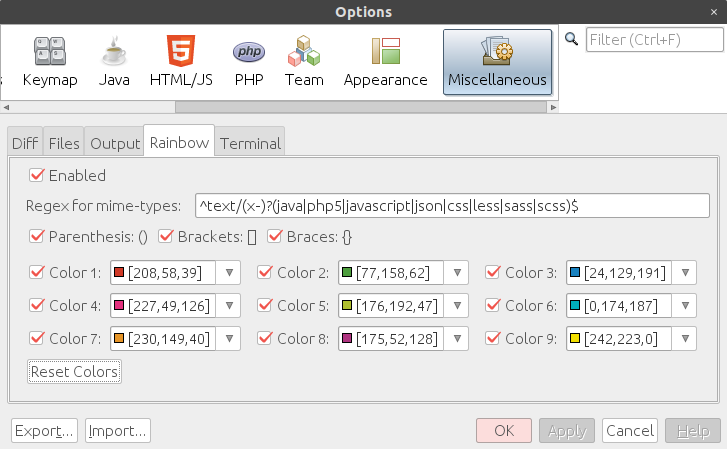
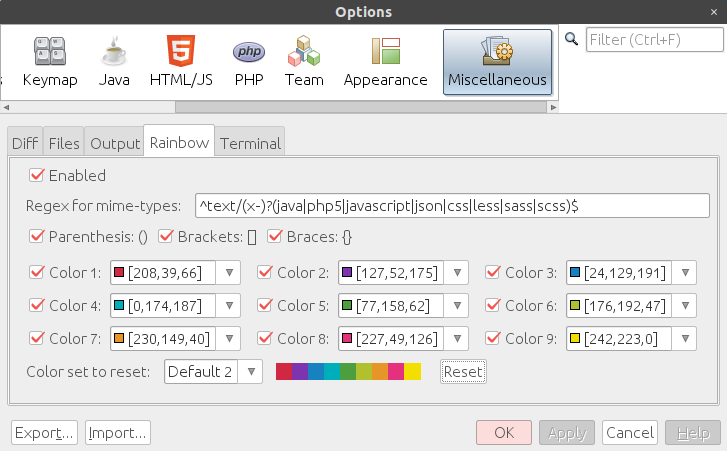
Add a combo box to reset with default colors

diff --git a/src/com/junichi11/netbeans/modules/rainbow/braces/options/RainbowBracesOptionsPanel.java b/src/com/junichi11/netbeans/modules/rainbow/braces/options/RainbowBracesOptionsPanel.java
@@ -16,11 +16,18 @@
 package com.junichi11.netbeans.modules.rainbow.braces.options;
 
 import java.awt.Color;
+import java.awt.Component;
+import java.awt.Graphics;
+import java.awt.Graphics2D;
+import java.util.List;
 import java.util.regex.Pattern;
 import java.util.regex.PatternSyntaxException;
+import javax.swing.Icon;
 import javax.swing.UIManager;
 import javax.swing.event.DocumentEvent;
 import javax.swing.event.DocumentListener;
+import org.openide.*;
+import org.openide.util.NbBundle;
 
 /**
  *
@@ -48,6 +55,22 @@ public class RainbowBracesOptionsPanel extends javax.swing.JPanel {
         setErrorMessage(null);
         // add listener
         mimeTypesTextField.getDocument().addDocumentListener(new DefaultDocumentListener());
+        List<String> defaultColorNames = RainbowBracesOptions.getDefaultColorNames();
+        defaultColorNames.forEach(color -> resetColorsComboBox.addItem(color));
+        resetColorsComboBox.addItemListener(e -> {
+            setColorBar();
+        });
+        resetColorsBarLabel.setText(" "); // NOI18N
+        setColorBar();
+    }
+
+    private void setColorBar() {
+        resetColorsBarLabel.setIcon(
+                new ColorBarIcon(
+                        RainbowBracesOptions.getDefaultColors((String) resetColorsComboBox.getSelectedItem()),
+                        resetColorsBarLabel.getPreferredSize().height
+                )
+        );
     }
 
     /**
@@ -85,6 +108,9 @@ public class RainbowBracesOptionsPanel extends javax.swing.JPanel {
         bracesCheckBox = new javax.swing.JCheckBox();
         errorLabel = new javax.swing.JLabel();
         resetColorsButton = new javax.swing.JButton();
+        resetColorsComboBox = new javax.swing.JComboBox<>();
+        resetColorsLabel = new javax.swing.JLabel();
+        resetColorsBarLabel = new javax.swing.JLabel();
 
         org.openide.awt.Mnemonics.setLocalizedText(mimeTypesLabel, org.openide.util.NbBundle.getMessage(RainbowBracesOptionsPanel.class, "RainbowBracesOptionsPanel.mimeTypesLabel.text")); // NOI18N
 
@@ -125,6 +151,10 @@ public class RainbowBracesOptionsPanel extends javax.swing.JPanel {
             }
         });
 
+        org.openide.awt.Mnemonics.setLocalizedText(resetColorsLabel, org.openide.util.NbBundle.getMessage(RainbowBracesOptionsPanel.class, "RainbowBracesOptionsPanel.resetColorsLabel.text")); // NOI18N
+
+        org.openide.awt.Mnemonics.setLocalizedText(resetColorsBarLabel, org.openide.util.NbBundle.getMessage(RainbowBracesOptionsPanel.class, "RainbowBracesOptionsPanel.resetColorsBarLabel.text")); // NOI18N
+
         javax.swing.GroupLayout layout = new javax.swing.GroupLayout(this);
         this.setLayout(layout);
         layout.setHorizontalGroup(
@@ -136,20 +166,30 @@ public class RainbowBracesOptionsPanel extends javax.swing.JPanel {
             .addGroup(layout.createSequentialGroup()
                 .addGroup(layout.createParallelGroup(javax.swing.GroupLayout.Alignment.LEADING)
                     .addGroup(layout.createSequentialGroup()
-                        .addGroup(layout.createParallelGroup(javax.swing.GroupLayout.Alignment.LEADING)
-                            .addComponent(colorCheckBox4)
-                            .addComponent(colorCheckBox1)
-                            .addComponent(colorCheckBox7))
+                        .addComponent(parenthesisCheckBox)
                         .addPreferredGap(javax.swing.LayoutStyle.ComponentPlacement.RELATED)
-                        .addGroup(layout.createParallelGroup(javax.swing.GroupLayout.Alignment.LEADING, false)
-                            .addComponent(colorComboBox1, javax.swing.GroupLayout.DEFAULT_SIZE, javax.swing.GroupLayout.DEFAULT_SIZE, Short.MAX_VALUE)
-                            .addComponent(colorComboBox4, javax.swing.GroupLayout.DEFAULT_SIZE, javax.swing.GroupLayout.DEFAULT_SIZE, Short.MAX_VALUE)
-                            .addComponent(colorComboBox7, javax.swing.GroupLayout.DEFAULT_SIZE, javax.swing.GroupLayout.DEFAULT_SIZE, Short.MAX_VALUE))
-                        .addPreferredGap(javax.swing.LayoutStyle.ComponentPlacement.UNRELATED)
+                        .addComponent(bracketsCheckBox)
+                        .addPreferredGap(javax.swing.LayoutStyle.ComponentPlacement.RELATED)
+                        .addComponent(bracesCheckBox))
+                    .addComponent(enabledCheckBox)
+                    .addGroup(layout.createSequentialGroup()
                         .addGroup(layout.createParallelGroup(javax.swing.GroupLayout.Alignment.LEADING)
-                            .addComponent(colorCheckBox5)
-                            .addComponent(colorCheckBox2)
-                            .addComponent(colorCheckBox8))
+                            .addComponent(errorLabel)
+                            .addGroup(layout.createSequentialGroup()
+                                .addGroup(layout.createParallelGroup(javax.swing.GroupLayout.Alignment.LEADING)
+                                    .addComponent(colorCheckBox4)
+                                    .addComponent(colorCheckBox1)
+                                    .addComponent(colorCheckBox7))
+                                .addPreferredGap(javax.swing.LayoutStyle.ComponentPlacement.RELATED)
+                                .addGroup(layout.createParallelGroup(javax.swing.GroupLayout.Alignment.LEADING, false)
+                                    .addComponent(colorComboBox1, javax.swing.GroupLayout.DEFAULT_SIZE, javax.swing.GroupLayout.DEFAULT_SIZE, Short.MAX_VALUE)
+                                    .addComponent(colorComboBox4, javax.swing.GroupLayout.DEFAULT_SIZE, javax.swing.GroupLayout.DEFAULT_SIZE, Short.MAX_VALUE)
+                                    .addComponent(colorComboBox7, javax.swing.GroupLayout.DEFAULT_SIZE, javax.swing.GroupLayout.DEFAULT_SIZE, Short.MAX_VALUE))
+                                .addPreferredGap(javax.swing.LayoutStyle.ComponentPlacement.UNRELATED)
+                                .addGroup(layout.createParallelGroup(javax.swing.GroupLayout.Alignment.LEADING)
+                                    .addComponent(colorCheckBox5)
+                                    .addComponent(colorCheckBox2)
+                                    .addComponent(colorCheckBox8))))
                         .addPreferredGap(javax.swing.LayoutStyle.ComponentPlacement.RELATED)
                         .addGroup(layout.createParallelGroup(javax.swing.GroupLayout.Alignment.LEADING, false)
                             .addComponent(colorComboBox2, javax.swing.GroupLayout.DEFAULT_SIZE, javax.swing.GroupLayout.DEFAULT_SIZE, Short.MAX_VALUE)
@@ -166,14 +206,13 @@ public class RainbowBracesOptionsPanel extends javax.swing.JPanel {
                             .addComponent(colorComboBox6, javax.swing.GroupLayout.DEFAULT_SIZE, javax.swing.GroupLayout.DEFAULT_SIZE, Short.MAX_VALUE)
                             .addComponent(colorComboBox9, javax.swing.GroupLayout.DEFAULT_SIZE, javax.swing.GroupLayout.DEFAULT_SIZE, Short.MAX_VALUE)))
                     .addGroup(layout.createSequentialGroup()
-                        .addComponent(parenthesisCheckBox)
+                        .addComponent(resetColorsLabel)
                         .addPreferredGap(javax.swing.LayoutStyle.ComponentPlacement.RELATED)
-                        .addComponent(bracketsCheckBox)
+                        .addComponent(resetColorsComboBox, javax.swing.GroupLayout.PREFERRED_SIZE, javax.swing.GroupLayout.DEFAULT_SIZE, javax.swing.GroupLayout.PREFERRED_SIZE)
                         .addPreferredGap(javax.swing.LayoutStyle.ComponentPlacement.RELATED)
-                        .addComponent(bracesCheckBox))
-                    .addComponent(enabledCheckBox)
-                    .addComponent(errorLabel)
-                    .addComponent(resetColorsButton))
+                        .addComponent(resetColorsBarLabel)
+                        .addPreferredGap(javax.swing.LayoutStyle.ComponentPlacement.RELATED)
+                        .addComponent(resetColorsButton)))
                 .addContainerGap(javax.swing.GroupLayout.DEFAULT_SIZE, Short.MAX_VALUE))
         );
         layout.setVerticalGroup(
@@ -216,23 +255,43 @@ public class RainbowBracesOptionsPanel extends javax.swing.JPanel {
                     .addComponent(colorCheckBox9)
                     .addComponent(colorComboBox9, javax.swing.GroupLayout.PREFERRED_SIZE, javax.swing.GroupLayout.DEFAULT_SIZE, javax.swing.GroupLayout.PREFERRED_SIZE))
                 .addPreferredGap(javax.swing.LayoutStyle.ComponentPlacement.RELATED)
-                .addComponent(resetColorsButton)
+                .addGroup(layout.createParallelGroup(javax.swing.GroupLayout.Alignment.BASELINE)
+                    .addComponent(resetColorsButton)
+                    .addComponent(resetColorsComboBox, javax.swing.GroupLayout.PREFERRED_SIZE, javax.swing.GroupLayout.DEFAULT_SIZE, javax.swing.GroupLayout.PREFERRED_SIZE)
+                    .addComponent(resetColorsLabel)
+                    .addComponent(resetColorsBarLabel))
                 .addPreferredGap(javax.swing.LayoutStyle.ComponentPlacement.RELATED, javax.swing.GroupLayout.DEFAULT_SIZE, Short.MAX_VALUE)
                 .addComponent(errorLabel))
         );
     }// </editor-fold>//GEN-END:initComponents
 
+    @NbBundle.Messages({
+        "# {0} - name",
+        "RainbowBracesOptionsPanel.confirmation.message.reset.colors=Would you really like rest colors with {0}? You cannot undo them.",
+        "RainbowBracesOptionsPanel.confirmation.message.title=Reset colors"
+    })
     private void resetColorsButtonActionPerformed(java.awt.event.ActionEvent evt) {//GEN-FIRST:event_resetColorsButtonActionPerformed
+        // show confirmation dialog
+        String name = (String) resetColorsComboBox.getSelectedItem();
+        NotifyDescriptor.Confirmation confirmation = new NotifyDescriptor.Confirmation(
+                Bundle.RainbowBracesOptionsPanel_confirmation_message_reset_colors(name),
+                Bundle.RainbowBracesOptionsPanel_confirmation_message_title(),
+                NotifyDescriptor.OK_CANCEL_OPTION,
+                NotifyDescriptor.QUESTION_MESSAGE
+        );
+        if (DialogDisplayer.getDefault().notify(confirmation) != NotifyDescriptor.OK_OPTION) {
+            return;
+        }
         RainbowBracesOptions options = RainbowBracesOptions.getInstance();
-        colorComboBox1.setSelectedColor(Color.decode(options.getDefaultColorCode(1)));
-        colorComboBox2.setSelectedColor(Color.decode(options.getDefaultColorCode(2)));
-        colorComboBox3.setSelectedColor(Color.decode(options.getDefaultColorCode(3)));
-        colorComboBox4.setSelectedColor(Color.decode(options.getDefaultColorCode(4)));
-        colorComboBox5.setSelectedColor(Color.decode(options.getDefaultColorCode(5)));
-        colorComboBox6.setSelectedColor(Color.decode(options.getDefaultColorCode(6)));
-        colorComboBox7.setSelectedColor(Color.decode(options.getDefaultColorCode(7)));
-        colorComboBox8.setSelectedColor(Color.decode(options.getDefaultColorCode(8)));
-        colorComboBox9.setSelectedColor(Color.decode(options.getDefaultColorCode(9)));
+        colorComboBox1.setSelectedColor(Color.decode(options.getDefaultColorCode(name, 1)));
+        colorComboBox2.setSelectedColor(Color.decode(options.getDefaultColorCode(name, 2)));
+        colorComboBox3.setSelectedColor(Color.decode(options.getDefaultColorCode(name, 3)));
+        colorComboBox4.setSelectedColor(Color.decode(options.getDefaultColorCode(name, 4)));
+        colorComboBox5.setSelectedColor(Color.decode(options.getDefaultColorCode(name, 5)));
+        colorComboBox6.setSelectedColor(Color.decode(options.getDefaultColorCode(name, 6)));
+        colorComboBox7.setSelectedColor(Color.decode(options.getDefaultColorCode(name, 7)));
+        colorComboBox8.setSelectedColor(Color.decode(options.getDefaultColorCode(name, 8)));
+        colorComboBox9.setSelectedColor(Color.decode(options.getDefaultColorCode(name, 9)));
     }//GEN-LAST:event_resetColorsButtonActionPerformed
 
     void load() {
@@ -355,9 +414,13 @@ public class RainbowBracesOptionsPanel extends javax.swing.JPanel {
     private javax.swing.JLabel mimeTypesLabel;
     private javax.swing.JTextField mimeTypesTextField;
     private javax.swing.JCheckBox parenthesisCheckBox;
+    private javax.swing.JLabel resetColorsBarLabel;
     private javax.swing.JButton resetColorsButton;
+    private javax.swing.JComboBox<String> resetColorsComboBox;
+    private javax.swing.JLabel resetColorsLabel;
     // End of variables declaration//GEN-END:variables
 
+    //~ Inner classes
     private class DefaultDocumentListener implements DocumentListener {
 
         public DefaultDocumentListener() {
@@ -382,5 +445,40 @@ public class RainbowBracesOptionsPanel extends javax.swing.JPanel {
             fireChange();
         }
 
+    }
+
+    private static class ColorBarIcon implements Icon {
+
+        private final List<String> colors;
+        private final int width;
+        private final int height;
+
+        public ColorBarIcon(List<String> colors, int size) {
+            this.colors = colors;
+            this.height = size;
+            this.width = size * colors.size();
+        }
+
+        @Override
+        public void paintIcon(Component c, Graphics g, int x, int y) {
+            Graphics2D g2d = (Graphics2D) g.create();
+            int i = 0;
+            for (String color : colors) {
+                g2d.setColor(Color.decode(color));
+                g2d.fillRect(x + i, y, height, height);
+                i += height;
+            }
+            g2d.dispose();
+        }
+
+        @Override
+        public int getIconWidth() {
+            return width;
+        }
+
+        @Override
+        public int getIconHeight() {
+            return height;
+        }
     }
 }

diff --git a/src/com/junichi11/netbeans/modules/rainbow/braces/options/RainbowBracesOptions.java b/src/com/junichi11/netbeans/modules/rainbow/braces/options/RainbowBracesOptions.java
@@ -15,8 +15,12 @@
  */
 package com.junichi11.netbeans.modules.rainbow.braces.options;
 
+import java.util.ArrayList;
 import java.util.Arrays;
+import java.util.Collections;
+import java.util.HashMap;
 import java.util.List;
+import java.util.Map;
 import java.util.prefs.Preferences;
 import org.openide.util.NbPreferences;
 
@@ -26,6 +30,7 @@ import org.openide.util.NbPreferences;
  */
 public final class RainbowBracesOptions {
 
+    private static final Map<String, List<String>> DEFAULT_COLORS = new HashMap<>();
     private static final List<String> DEFAULT_COLORS1 = Arrays.asList(
             "#d03a27", // NOI18N
             "#4d9e3e", // NOI18N
@@ -38,8 +43,8 @@ public final class RainbowBracesOptions {
             "#f2df00" // NOI18N
     );
     private static final List<String> DEFAULT_COLORS2 = Arrays.asList(
-            "#d03a27", // NOI18N
-            "#af3480", // NOI18N
+            "#d02742", // NOI18N
+            "#7f34af", // NOI18N
             "#1881bf", // NOI18N
             "#00aebb", // NOI18N
             "#4d9e3e", // NOI18N
@@ -49,7 +54,7 @@ public final class RainbowBracesOptions {
             "#f2df00" // NOI18N
     );
     private static final List<String> DEFAULT_COLORS3 = Arrays.asList(
-            "#f19db5", // NOI18N
+            "#e79df1", // NOI18N
             "#ee858b", // NOI18N
             "#f5a33b", // NOI18N
             "#fedc5e", // NOI18N
@@ -69,6 +74,12 @@ public final class RainbowBracesOptions {
     private static final String COLOR_CODE = "rainbow.braces.color.code.%s"; // NOI18N
     private static final String DEFAULT_COLOR = "#000000"; // NOI18N
     private static final RainbowBracesOptions INSTANCE = new RainbowBracesOptions();
+
+    static {
+        DEFAULT_COLORS.put("Default 1", DEFAULT_COLORS1); // NOI18N
+        DEFAULT_COLORS.put("Default 2", DEFAULT_COLORS2); // NOI18N
+        DEFAULT_COLORS.put("Default 3", DEFAULT_COLORS3); // NOI18N
+    }
 
     private RainbowBracesOptions() {
     }
@@ -133,8 +144,19 @@ public final class RainbowBracesOptions {
         getPreferences().put(String.format(COLOR_CODE, number), color);
     }
 
+    public String getDefaultColorCode(String name, int number) {
+        List<String> defaultColors = DEFAULT_COLORS.get(name);
+        if (defaultColors == null || defaultColors.isEmpty()) {
+            defaultColors = DEFAULT_COLORS1;
+        }
+        if (number <= 0 || defaultColors.size() < number) {
+            return DEFAULT_COLOR;
+        }
+        return defaultColors.get(number - 1);
+    }
+
     public String getDefaultColorCode(int number) {
-        if (number <= 0 || 10 <= number) {
+        if (number <= 0 || DEFAULT_COLORS1.size() < number) {
             return DEFAULT_COLOR;
         }
         return DEFAULT_COLORS1.get(number - 1);
@@ -142,5 +164,19 @@ public final class RainbowBracesOptions {
 
     private Preferences getPreferences() {
         return NbPreferences.forModule(RainbowBracesOptions.class);
+    }
+
+    public static List<String> getDefaultColorNames() {
+        ArrayList names = new ArrayList(DEFAULT_COLORS.keySet());
+        Collections.sort(names);
+        return names;
+    }
+
+    public static List<String> getDefaultColors(String name) {
+        List<String> defaultColors = DEFAULT_COLORS.get(name);
+        if (defaultColors == null) {
+            return Collections.emptyList();
+        }
+        return defaultColors;
     }
 }
